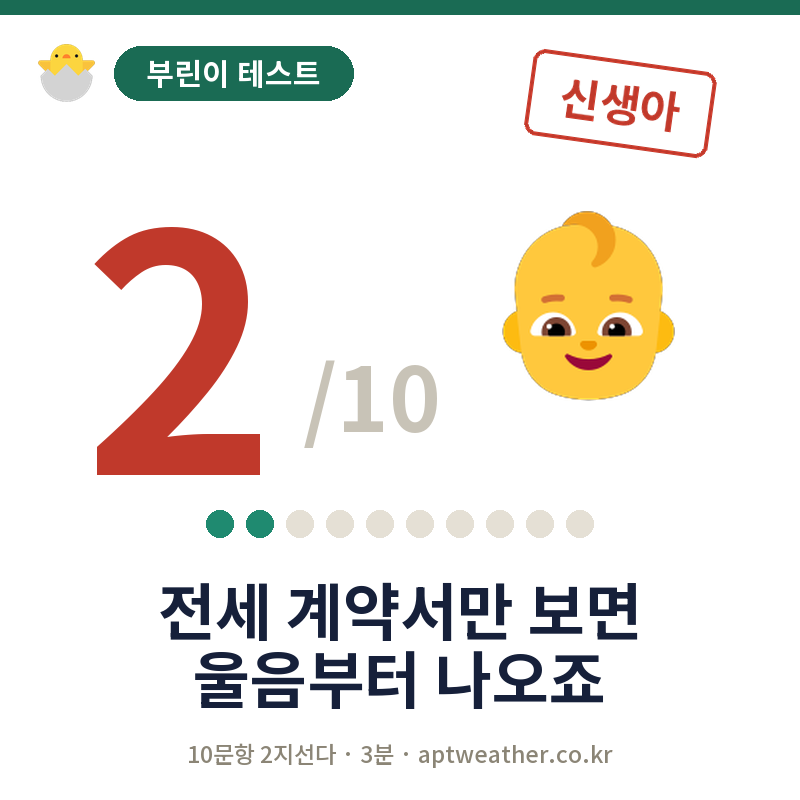
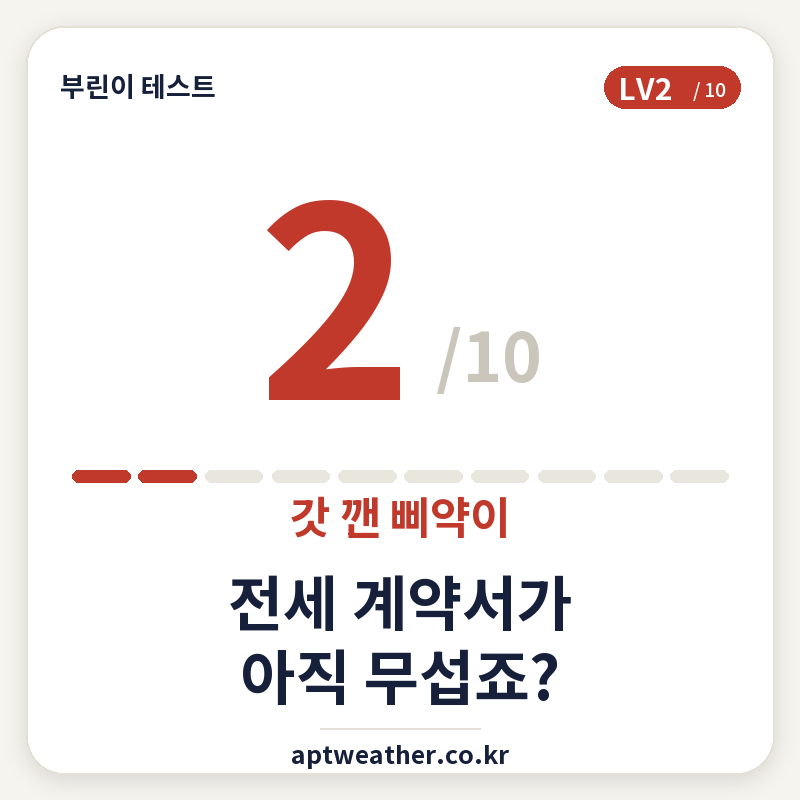
부린이 레벨을 학교 사다리 → 부동산 여정으로 전면 개편 (달걀→봉황)
- BLV 테이블 11단계 전면 교체: 무주택 달걀·부화 임박·갓 깬 삐약이·솜털 병아리·
  첫 발품 영계·알 낳는 암탉·목청 좋은 장닭·내 집 마련·다주택자·부동산 거물·부동산 봉황
  ("중학생인데 부린이"처럼 나이-호칭 불일치가 없어지고, 부동산 축적 서사와 직결됨
- LV9(부동산 거물)는 HF 생성 아트(장닭+금은보화)를 배경 제거해 실사 카드로 교체
- 나머지 10장은 v3 스타일(이모지 없이 점수 숫자가 히어로)로 유지 — '그림 대기중'
  플레이스홀더 대신 바로 배포 가능한 완성도로
- tools/make_beginner_cards.py: art_raw/raw-<score>.png 가 있으면 자동으로 실사
  아트를 얹고 없으면 v3로 폴백하는 단일 파이프라인으로 통합. 그림을 더 구하면
  파일만 넣고 재실행하면 그 레벨만 교체됨
- art_raw/raw-9.png 원본 보관 (향후 재처리용)

Changed region(s): [[0.0, 0.0, 1.0, 1.0], [0.0938, 0.25, 0.9062, 0.6875], [0.5625, 0.25, 0.8438, 0.5]]

diff --git a/index.html b/index.html
@@ -1337,39 +1337,39 @@ function drawLeadtime(){
 /* 부린이 테스트 레벨 10단계 (점수 0~10 → 태아부터 교수님까지).
    share/beginner-{0..10}.png 카드의 스탬프·이모지·문구와 1:1로 대응한다. */
 const BLV=[
-  {lv:'LV1',emoji:'\u{1F95A}',g:'아직 세상에 안 나온 부동산 태아',
-   d:'전세와 월세의 차이부터 천천히. 괜찮아요, 모두 여기서 시작합니다.',
-   taunt:'아직 엄마 뱃속에 계시네요…'},
-  {lv:'LV1',emoji:'\u{1F95A}',g:'아직 세상에 안 나온 부동산 태아',
-   d:'전세와 월세의 차이부터 천천히. 괜찮아요, 모두 여기서 시작합니다.',
-   taunt:'아직 엄마 뱃속에 계시네요…'},
-  {lv:'LV2',emoji:'\u{1F476}',g:'갓 태어난 신생아 부린이',
-   d:'이제 막 눈을 떴습니다. 용어부터 하나씩 익히면 금방 걸음마해요.',
-   taunt:'전세 계약서만 보면 울음부터 나오죠'},
-  {lv:'LV3',emoji:'\u{1F9F8}',g:'어린이집 다니는 부린이',
+  {lv:'LV1',emoji:'\u{1F95A}',g:'무주택 달걀',
+   d:'아직 청약도 임장도 낯선 단계. 용어부터 하나씩 익히면 금방 깨어납니다.',
+   taunt:'아직 껍데기 속 무주택입니다'},
+  {lv:'LV1',emoji:'\u{1F423}',g:'부화 임박',
+   d:'금이 가기 시작했습니다. 조금만 더 읽으면 세상 밖으로 나옵니다.',
+   taunt:'곧 세상 밖으로 나올 참입니다'},
+  {lv:'LV2',emoji:'\u{1F424}',g:'갓 깬 삐약이',
+   d:'이제 막 눈을 떴습니다. 전세와 월세 차이부터 하나씩 익혀보세요.',
+   taunt:'전세 계약서가 아직 무섭죠?'},
+  {lv:'LV3',emoji:'\u{1F425}',g:'솜털 병아리',
    d:'단어는 들어봤는데 뜻은 아직. 해설만 읽어도 두 계단은 올라갑니다.',
-   taunt:'등기부등본이 아직 그림책 같죠?'},
-  {lv:'LV4',emoji:'\u{1F392}',g:'유치원 부린이',
-   d:'기초 용어에 익숙해지는 중. LTV·DSR만 정리해도 확 달라집니다.',
-   taunt:'LTV랑 DSR, 아직 헷갈리시죠?'},
-  {lv:'LV5',emoji:'\u{270F}\u{FE0F}',g:'초등학생 부린이',
-   d:'용어는 외웠지만 실전은 아직. 계약서 앞에선 아직 손이 떨릴 겁니다.',
-   taunt:'용어는 외웠는데 실전은 아직이에요'},
-  {lv:'LV6',emoji:'\u{1F4D0}',g:'부린이 티를 벗는 중학생',
-   d:'발품은 파는데 제도에서 막히는 단계. 틀린 문항 해설을 한 번 더 읽어보세요.',
+   taunt:'용어는 외웠는데 실전은 아직이죠'},
+  {lv:'LV4',emoji:'\u{1FA99}',g:'첫 발품 영계',
+   d:'임장은 다녀봤지만 LTV·DSR만 정리해도 확 달라집니다.',
    taunt:'임장은 이제 다녀보셨나요?'},
-  {lv:'LV7',emoji:'\u{1F4D7}',g:'실전을 앞둔 고등학생',
-   d:'기본기는 탄탄합니다. 헷갈린 한두 개 제도만 챙기면 졸업이 보입니다.',
-   taunt:'제도는 다 아시네요. 이제 실전만 남았어요'},
-  {lv:'LV8',emoji:'\u{1F4DA}',g:'부린이 졸업, 어엿한 성인 실수요자',
+  {lv:'LV5',emoji:'\u{1FAB9}',g:'알 낳는 암탉',
+   d:'슬슬 감이 잡히는 단계. 동전도 하나둘 모이기 시작합니다.',
+   taunt:'슬슬 감이 잡히시죠?'},
+  {lv:'LV6',emoji:'\u{1F413}',g:'목청 좋은 장닭',
+   d:'기본기는 탄탄합니다. 헷갈린 한두 개 제도만 챙기면 곧 내 집 마련입니다.',
+   taunt:'이제 아무도 못 말리겠는데요?'},
+  {lv:'LV7',emoji:'\u{1F3E0}',g:'내 집 마련',
    d:'대출·세금·임대차를 또렷이 꿰고 있습니다. 계약서 앞에서 안 떨릴 수준.',
-   taunt:'계약서 앞에서 안 떨리겠는데요?'},
-  {lv:'LV9',emoji:'\u{1F52C}',g:'논문까지 쓰는 부동산 대학원생',
-   d:'이쯤 되면 중개사에게 되묻는 쪽입니다. 투자자 테스트로 넘어갈 때입니다.',
-   taunt:'이쯤 되면… 다주택자세요?'},
-  {lv:'LV10',emoji:'\u{1F393}',g:'부동산학 교수님',
-   d:'부린이는 무슨 — 강단에 서셔도 됩니다. 이제 투자자 테스트에서 통념을 깨보세요.',
-   taunt:'혹시… 부동산학 강의하세요?'}
+   taunt:'드디어 첫 둥지 축하합니다!'},
+  {lv:'LV8',emoji:'\u{1F3D8}\u{FE0F}',g:'다주택자',
+   d:'한 채로는 성에 안 차는 실력. 이쯤 되면 중개사에게 되묻는 쪽입니다.',
+   taunt:'한 채로는 성에 안 차죠?'},
+  {lv:'LV9',emoji:'\u{1F3D9}\u{FE0F}',g:'부동산 거물',
+   d:'시장이 손안에 들어왔습니다. 투자자 테스트로 넘어갈 때입니다.',
+   taunt:'시장이 손안에 들어왔네요'},
+  {lv:'LV10',emoji:'\u{1F985}',g:'부동산 봉황',
+   d:'부린이는 무슨 — 금은보화 위에 앉으셔도 됩니다. 이제 투자자 테스트에서 통념을 깨보세요.',
+   taunt:'금은보화 위에 앉으셨네요'}
 ];
 const QUIZSETS={
   beginner:{

diff --git a/tools/make_beginner_cards.py b/tools/make_beginner_cards.py
@@ -1,149 +1,193 @@
 # -*- coding: utf-8 -*-
-"""부린이 테스트 점수별 공유 카드 (800x800) — 10단계 레벨"""
-import io, os, sys
-from PIL import Image, ImageDraw, ImageFont
+"""부린이 테스트 점수별 공유 카드 11장 (800x800) — 부동산 여정 (달걀 → 봉황).
+
+문구는 index.html의 BLV[score]와 1:1로 대응한다. 둘 중 하나를 고치면 반드시 같이 고칠 것.
+
+아트 소스:
+  art_raw/raw-<score>.{png,webp,jpg,jpeg} 가 있으면 그 그림을 배경 제거(단색 배경 flood-fill)
+  후 카드 히어로 자리에 합성한다. 없는 레벨은 v3 스타일(이모지 없이 큰 점수 숫자)로 대체한다 —
+  '그림 대기중' 같은 플레이스홀더는 배포용으로 쓰지 않는다.
+
+  그림을 새로 구하면 art_raw/raw-<score>.png 로 넣고 이 스크립트를 다시 실행하면
+  그 레벨만 실사 아트로 자동 교체된다.
+
+사용:  python tools/make_beginner_cards.py
+"""
+import os
+from PIL import Image, ImageDraw, ImageFont, ImageFilter
 
 W = H = 800
-WHITE = (255, 255, 255)
-BAR = (26, 107, 84)          # 부린이 = 짙은 초록
-PILL = (26, 107, 84)
+PAPER = (246, 244, 238)
+CARD = (255, 255, 255)
+LINE = (228, 224, 214)
 INK = (22, 32, 58)
-GRAY = (200, 195, 183)       # /10
-FOOT = (139, 133, 118)
-DOT_ON = (31, 138, 112)
-DOT_OFF = (229, 224, 213)
+MUTED = (139, 133, 118)
+GRAY = (203, 198, 187)
+METER_OFF = (233, 230, 221)
 
-RED = (192, 57, 43)
-AMBER = (217, 154, 0)
-GREEN = (31, 138, 112)
-GOLD = (184, 134, 47)
-# 원본 램프 유지: 0~4 빨강 / 5~6 앰버 / 7~8 초록 / 9~10 골드
-ACCENT = [RED]*5 + [AMBER]*2 + [GREEN]*2 + [GOLD]*2
+# 10단 연속 램프 (0~5 붉은 계열 = 아직 어린이 / 6에서 초록 점프 / 10은 금)
+RAMP = [
+    (178, 59, 46), (178, 59, 46), (192, 57, 43), (207, 91, 42), (217, 130, 0),
+    (217, 163, 0), (106, 168, 79), (61, 154, 99), (31, 138, 112), (20, 119, 111),
+    (184, 134, 47),
+]
 
 NOTO = 'C:/Windows/Fonts/NotoSansKR-VF.ttf'
-EMOJI = 'C:/Windows/Fonts/seguiemj.ttf'
+
+# (LV배지, 이름, 도발 문구 2줄) — index.html BLV[score]의 lv/g/taunt와 대응
+LEVELS = [
+    ('LV1', '무주택 달걀', ['아직 껍데기 속', '무주택입니다']),
+    ('LV1', '부화 임박', ['곧 세상 밖으로', '나올 참입니다']),
+    ('LV2', '갓 깬 삐약이', ['전세 계약서가', '아직 무섭죠?']),
+    ('LV3', '솜털 병아리', ['용어는 외웠는데', '실전은 아직이죠']),
+    ('LV4', '첫 발품 영계', ['임장은 이제', '다녀보셨나요?']),
+    ('LV5', '알 낳는 암탉', ['슬슬 감이', '잡히시죠?']),
+    ('LV6', '목청 좋은 장닭', ['이제 아무도', '못 말리겠는데요?']),
+    ('LV7', '내 집 마련', ['드디어 첫 둥지', '축하합니다!']),
+    ('LV8', '다주택자', ['한 채로는', '성에 안 차죠?']),
+    ('LV9', '부동산 거물', ['시장이 손안에', '들어왔네요']),
+    ('LV10', '부동산 봉황', ['금은보화 위에', '앉으셨네요']),
+]
+
 
 def noto(size, weight='Bold'):
     f = ImageFont.truetype(NOTO, size)
     f.set_variation_by_name(weight)
     return f
 
+
 def fit_font(text, target, weight='Bold', axis='h', lo=10, hi=460):
-    """ink 높이(또는 너비)가 target이 되도록 폰트 크기를 이분 탐색"""
-    probe = Image.new('RGB', (10, 10))
-    d = ImageDraw.Draw(probe)
+    pr = ImageDraw.Draw(Image.new('RGB', (10, 10)))
     best = lo
     while lo <= hi:
         mid = (lo + hi) // 2
-        f = noto(mid, weight)
-        bb = d.textbbox((0, 0), text, font=f)
-        v = (bb[3]-bb[1]) if axis == 'h' else (bb[2]-bb[0])
+        bb = pr.textbbox((0, 0), text, font=noto(mid, weight))
+        v = (bb[3] - bb[1]) if axis == 'h' else (bb[2] - bb[0])
         if v <= target:
             best = mid; lo = mid + 1
         else:
             hi = mid - 1
     return noto(best, weight)
 
-def ink_bbox(draw, xy, text, font, **kw):
-    return draw.textbbox(xy, text, font=font, **kw)
 
-def emoji_img(ch, box):
-    """이모지를 그려 ink만 크롭한 뒤 box(px) 정사각에 맞춰 축소"""
-    canvas = Image.new('RGBA', (400, 400), (0, 0, 0, 0))
-    d = ImageDraw.Draw(canvas)
-    d.text((40, 40), ch, font=ImageFont.truetype(EMOJI, 137), embedded_color=True)
-    bb = canvas.getbbox()
-    im = canvas.crop(bb)
-    scale = box / max(im.size)
-    return im.resize((max(1, int(im.width*scale)), max(1, int(im.height*scale))), Image.LANCZOS)
+def find_art(art_dir, score):
+    for ext in ('png', 'webp', 'jpg', 'jpeg', 'png.webp'):
+        p = os.path.join(art_dir, 'raw-%d.%s' % (score, ext))
+        if os.path.exists(p):
+            return p
+    return None
 
-def rounded(draw, box, r, **kw):
-    draw.rounded_rectangle(box, radius=r, **kw)
 
-def make_card(score, level, out_path):
-    img = Image.new('RGB', (W, H), WHITE)
+def cutout(path, thresh=42):
+    """단색 배경을 가장자리 flood-fill로 투명 처리하고 내용만 트림."""
+    im = Image.open(path).convert('RGB')
+    w, h = im.size
+    key = (255, 0, 255)
+    seeds = [(1, 1), (w - 2, 1), (1, h - 2), (w - 2, h - 2),
+             (w // 2, 1), (w // 2, h - 2), (1, h // 2), (w - 2, h // 2)]
+    for sd in seeds:
+        ImageDraw.floodfill(im, sd, key, thresh=thresh)
+    px = im.load()
+    out = Image.new('RGBA', (w, h), (0, 0, 0, 0))
+    op = out.load()
+    for y in range(h):
+        for x in range(w):
+            c = px[x, y]
+            if c != key:
+                op[x, y] = (c[0], c[1], c[2], 255)
+    bbox = out.getbbox()
+    return out.crop(bbox) if bbox else out
+
+
+def place_art(card, art, box):
+    bx0, by0, bx1, by1 = box
+    bw, bh = bx1 - bx0, by1 - by0
+    s = min(bw / art.width, bh / art.height)
+    nw, nh = int(art.width * s), int(art.height * s)
+    art2 = art.resize((nw, nh), Image.LANCZOS)
+    card.alpha_composite(art2, (bx0 + (bw - nw) // 2, by0 + (bh - nh) // 2))
+
+
+def make_card(score, art_dir, out_path):
+    lv, name, taunt2 = LEVELS[score]
+    accent = RAMP[score]
+
+    img = Image.new('RGBA', (W, H), PAPER)
+    M, R = 26, 38
+    sh = Image.new('RGBA', (W, H), (0, 0, 0, 0))
+    ImageDraw.Draw(sh).rounded_rectangle([M, M + 6, W - M, H - M + 6], R, fill=(22, 32, 58, 34))
+    img = Image.alpha_composite(img, sh.filter(ImageFilter.GaussianBlur(11)))
     d = ImageDraw.Draw(img)
-    accent = ACCENT[score]
+    d.rounded_rectangle([M, M, W - M, H - M], R, fill=CARD, outline=LINE, width=2)
 
-    # 상단 바
-    d.rectangle([0, 0, W, 14], fill=BAR)
+    # 헤더: 이름 + 레벨 배지
+    d.text((60, 86), '부린이 테스트', font=noto(27), fill=INK, anchor='lm')
+    bf, sf = noto(30), noto(19, 'Medium')
+    bw = d.textbbox((0, 0), lv, font=bf)[2] + d.textbbox((0, 0), '/ 10', font=sf)[2] + 20
+    bx1 = W - M - 34
+    d.rounded_rectangle([bx1 - bw - 28, 66, bx1, 108], 21, fill=accent)
+    d.text((bx1 - bw - 14, 88), lv, font=bf, fill=CARD, anchor='lm')
+    d.text((bx1 - 14, 89), '/ 10', font=sf, fill=CARD, anchor='rm')
 
-    # 좌상단 병아리 + 필
-    chick = emoji_img('\U0001F423', 58)
-    img.paste(chick, (38, 44), chick)
-    pill_f = noto(30, 'Bold')
-    label = '부린이 테스트'
-    tw = d.textbbox((0, 0), label, font=pill_f)
-    pw = (tw[2]-tw[0]) + 64
-    rounded(d, [114, 46, 114+pw, 100], 27, fill=PILL)
-    d.text((114+pw/2, 73), label, font=pill_f, fill=WHITE, anchor='mm')
+    art_path = find_art(art_dir, score)
+    if art_path:
+        place_art(img, cutout(art_path), (110, 128, W - 110, 468))
+        score_y = 494
+    else:
+        # v3 폴백: 이모지 없이 점수 숫자가 히어로
+        st = str(score)
+        sfnt = fit_font(st, 200)
+        sb = d.textbbox((0, 0), st, font=sfnt)
+        of = fit_font('/10', 108, axis='w')
+        ob = d.textbbox((0, 0), '/10', font=of)
+        sw_, ow = sb[2] - sb[0], ob[2] - ob[0]
+        gx = (W - (sw_ + 22 + ow)) / 2
+        base = 400
+        d.text((gx - sb[0], base - sb[3]), st, font=sfnt, fill=accent)
+        d.text((gx + sw_ + 22 - ob[0], base - 6 - ob[3]), '/10', font=of, fill=GRAY)
+        score_y = None
 
-    # 우상단 스탬프 (기울어진 라운드 사각형)
-    st_f = noto(44, 'Bold')
-    sb = d.textbbox((0, 0), level['stamp'], font=st_f)
-    sw, sh = (sb[2]-sb[0]) + 64, 86
-    stamp = Image.new('RGBA', (sw+24, sh+24), (0, 0, 0, 0))
-    sd = ImageDraw.Draw(stamp)
-    sd.rounded_rectangle([12, 12, 12+sw, 12+sh], radius=12, outline=accent, width=4)
-    sd.text((12+sw/2, 12+sh/2), level['stamp'], font=st_f, fill=accent, anchor='mm')
-    stamp = stamp.rotate(-8, resample=Image.BICUBIC, expand=True)
-    img.paste(stamp, (620 - stamp.width//2, 103 - stamp.height//2), stamp)
+    if score_y:
+        d.text((W // 2, score_y), '점수 %d/10' % score, font=noto(23, 'Medium'), fill=MUTED, anchor='mm')
 
-    # 큰 이모지
-    em = emoji_img(level['emoji'], 190)
-    img.paste(em, (588 - em.width//2, 306 - em.height//2), em)
-
-    # 점수 + /10
-    s_txt = str(score)
-    s_f = fit_font(s_txt, 248)
-    sb = d.textbbox((0, 0), s_txt, font=s_f)
-    sx = 180 - (sb[2]-sb[0])/2 - sb[0]
-    sy = 475 - sb[3]
-    d.text((sx, sy), s_txt, font=s_f, fill=accent)
-    s_right = sx + sb[2]
-
-    o_f = fit_font('/10', 138, axis='w')
-    ob = d.textbbox((0, 0), '/10', font=o_f)
-    d.text((s_right + 26 - ob[0], 448 - ob[3]), '/10', font=o_f, fill=GRAY)
-
-    # 진행 점 10개
+    # 레벨 미터 10칸
+    lvl = max(1, score)
+    gap, bh = 9, 12
+    x0 = M + 46
+    bw2 = ((W - 2 * x0) - gap * 9) / 10
+    meter_y = 522 if art_path else 470
     for i in range(10):
-        cx = 220 + 40*i
-        c = DOT_ON if i < score else DOT_OFF
-        d.ellipse([cx-13.5, 524-13.5, cx+13.5, 524+13.5], fill=c)
+        x = x0 + i * (bw2 + gap)
+        d.rounded_rectangle([x, meter_y, x + bw2, meter_y + bh], 6, fill=accent if i < lvl else METER_OFF)
 
-    # 도발 문구 2줄 (좌우 여백 60px 확보 — 넘치면 즉시 실패)
-    t_f = noto(62, 'Bold')
-    for i, line in enumerate(level['taunt2']):
-        lb = d.textbbox((400, 610 + i*68), line, font=t_f, anchor='mm')
-        assert lb[0] >= 60 and lb[2] <= W-60, 'taunt line overflows: %r (%d..%d)' % (line, lb[0], lb[2])
-        d.text((400, 610 + i*68), line, font=t_f, fill=INK, anchor='mm')
+    name_y = meter_y + 46
+    d.text((W // 2, name_y), name, font=noto(44), fill=accent, anchor='mm')
 
-    # 푸터
-    f_f = noto(23, 'Medium')
-    d.text((400, 754), '10문항 2지선다 · 3분 · aptweather.co.kr', font=f_f, fill=FOOT, anchor='mm')
+    taunt_y0 = name_y + (74 if art_path else 86)
+    line_gap = 58 if art_path else 74
+    tf = noto(48 if art_path else 60)
+    for i, line in enumerate(taunt2):
+        y = taunt_y0 + i * line_gap
+        bb = d.textbbox((W // 2, y), line, font=tf, anchor='mm')
+        assert bb[0] >= M + 24 and bb[2] <= W - M - 24, 'taunt overflows: %r' % line
+        d.text((W // 2, y), line, font=tf, fill=INK, anchor='mm')
 
-    img.save(out_path, 'PNG', optimize=True)
+    footer_line_y = taunt_y0 + (len(taunt2) - 1) * line_gap + (44 if art_path else 52)
+    footer_line_y = min(footer_line_y, 732)
+    d.line([320, footer_line_y, 480, footer_line_y], fill=LINE, width=2)
+    d.text((W // 2, footer_line_y + 26), 'aptweather.co.kr', font=noto(25), fill=INK, anchor='mm')
 
+    img.convert('RGB').save(out_path, 'PNG', optimize=True)
+    return art_path is not None
 
-LEVELS = [
-    # score 0
-    dict(stamp='태아', emoji='\U0001F95A', taunt2=['아직 엄마 뱃속에', '계시네요…']),
-    dict(stamp='태아', emoji='\U0001F95A', taunt2=['아직 엄마 뱃속에', '계시네요…']),
-    dict(stamp='신생아', emoji='\U0001F476', taunt2=['전세 계약서만 보면', '울음부터 나오죠']),
-    dict(stamp='어린이집', emoji='\U0001F9F8', taunt2=['등기부등본이', '아직 그림책 같죠?']),
-    dict(stamp='유치원', emoji='\U0001F392', taunt2=['LTV랑 DSR,', '아직 헷갈리시죠?']),
-    dict(stamp='초등학생', emoji='✏', taunt2=['용어는 외웠는데', '실전은 아직이에요']),
-    dict(stamp='중학생', emoji='\U0001F4D0', taunt2=['임장은 이제', '다녀보셨나요?']),
-    dict(stamp='고등학생', emoji='\U0001F4D7', taunt2=['제도는 다 아시네요', '이제 실전만 남았어요']),
-    dict(stamp='대학생', emoji='\U0001F4DA', taunt2=['계약서 앞에서', '안 떨리겠는데요?']),
-    dict(stamp='대학원생', emoji='\U0001F52C', taunt2=['이쯤 되면…', '다주택자세요?']),
-    dict(stamp='교수님', emoji='\U0001F393', taunt2=['혹시… 부동산학', '강의하세요?']),
-]
 
 if __name__ == '__main__':
-    outdir = sys.argv[1]
-    os.makedirs(outdir, exist_ok=True)
+    root = os.path.dirname(os.path.dirname(os.path.abspath(__file__)))
+    art_dir = os.path.join(root, 'art_raw')
+    share = os.path.join(root, 'share')
+    os.makedirs(share, exist_ok=True)
+    real = []
     for s in range(11):
-        make_card(s, LEVELS[s], os.path.join(outdir, 'beginner-%d.png' % s))
-    print('rendered 11 cards ->', outdir)
+        if make_card(s, art_dir, os.path.join(share, 'beginner-%d.png' % s)):
+            real.append(s)
+    print('11 cards written -> %s (real art: %s)' % (share, real))
